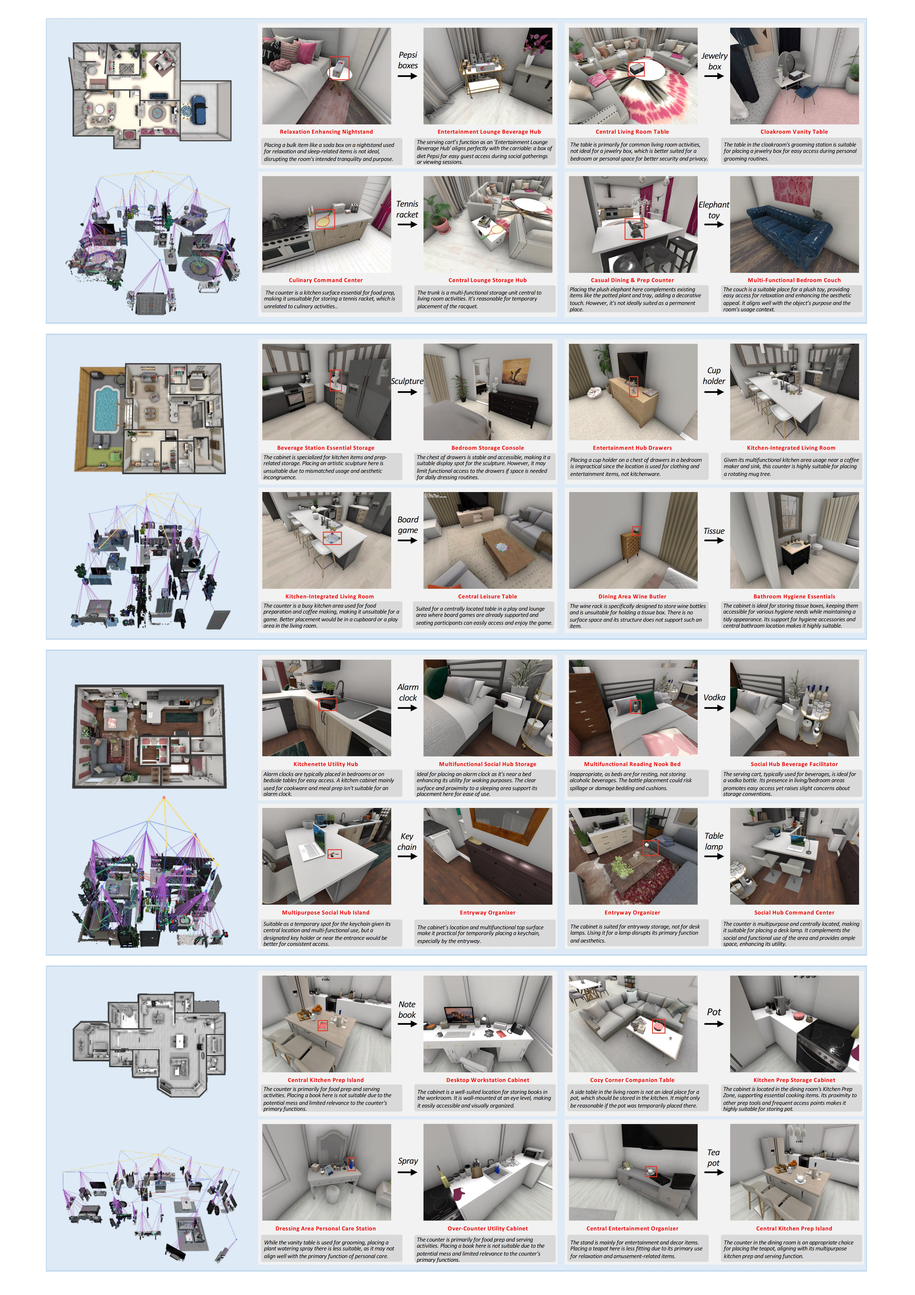
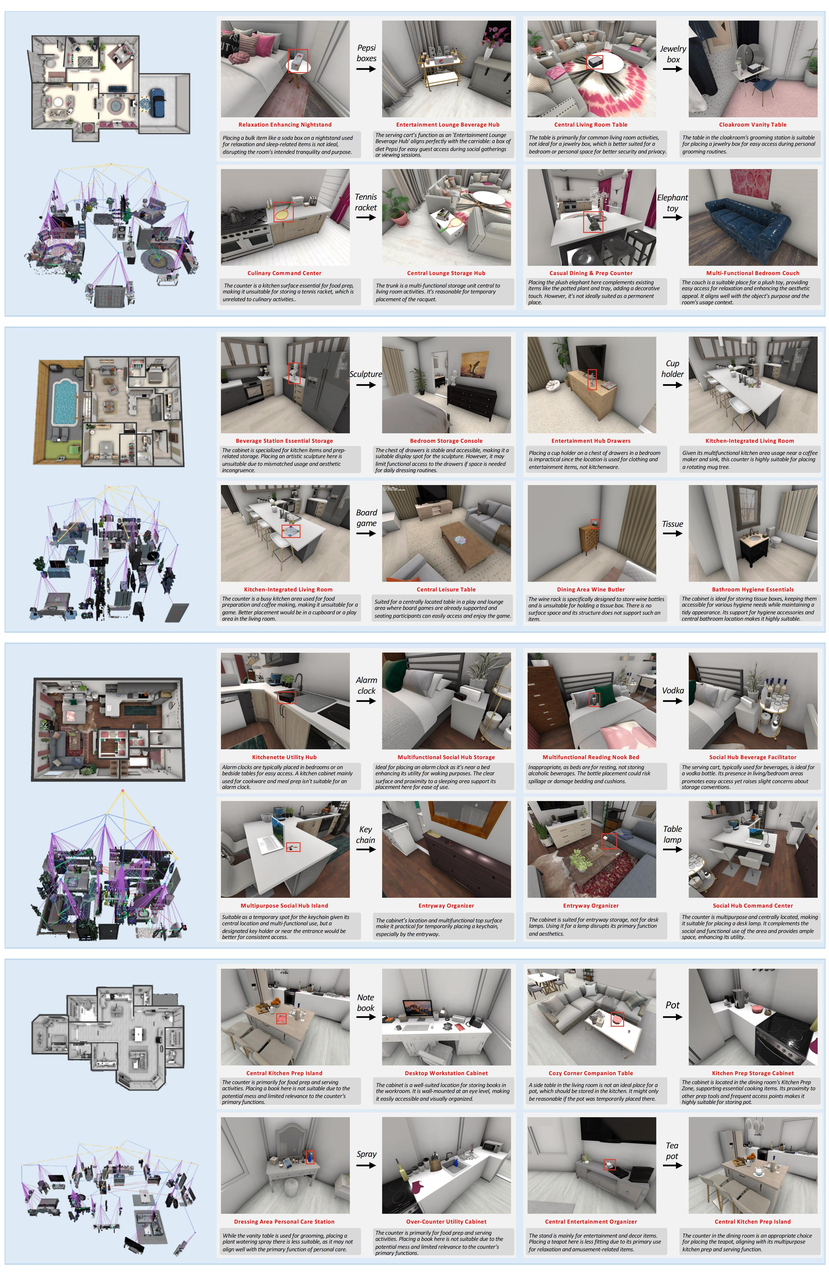
update jpg size

diff --git a/index.html b/index.html
@@ -204,7 +204,7 @@
   <div class="container is-max-desktop">
     <h2 class="title is-3">Visual Results</h2>
     <h3 class="title is-4">Simulated Environment</h3>
-        <img src="./static/images/Result_v1/Result_v1_00.jpg" alt="Description of Image" style="width: 106%; height: auto; border: none;">
+        <img src="./static/images/Result_v1/Result_v1_00.jpg" alt="Description of Image" style="width: 100%; height: auto; border: none;">
     <h3 class="title is-4">Real Scene</h3>
         <img src="./static/images/Result_v2-realscene/Result_v2-realscene_00.jpg" alt="Description of Image" style="width: 100%; height: auto; border: none;">
     
